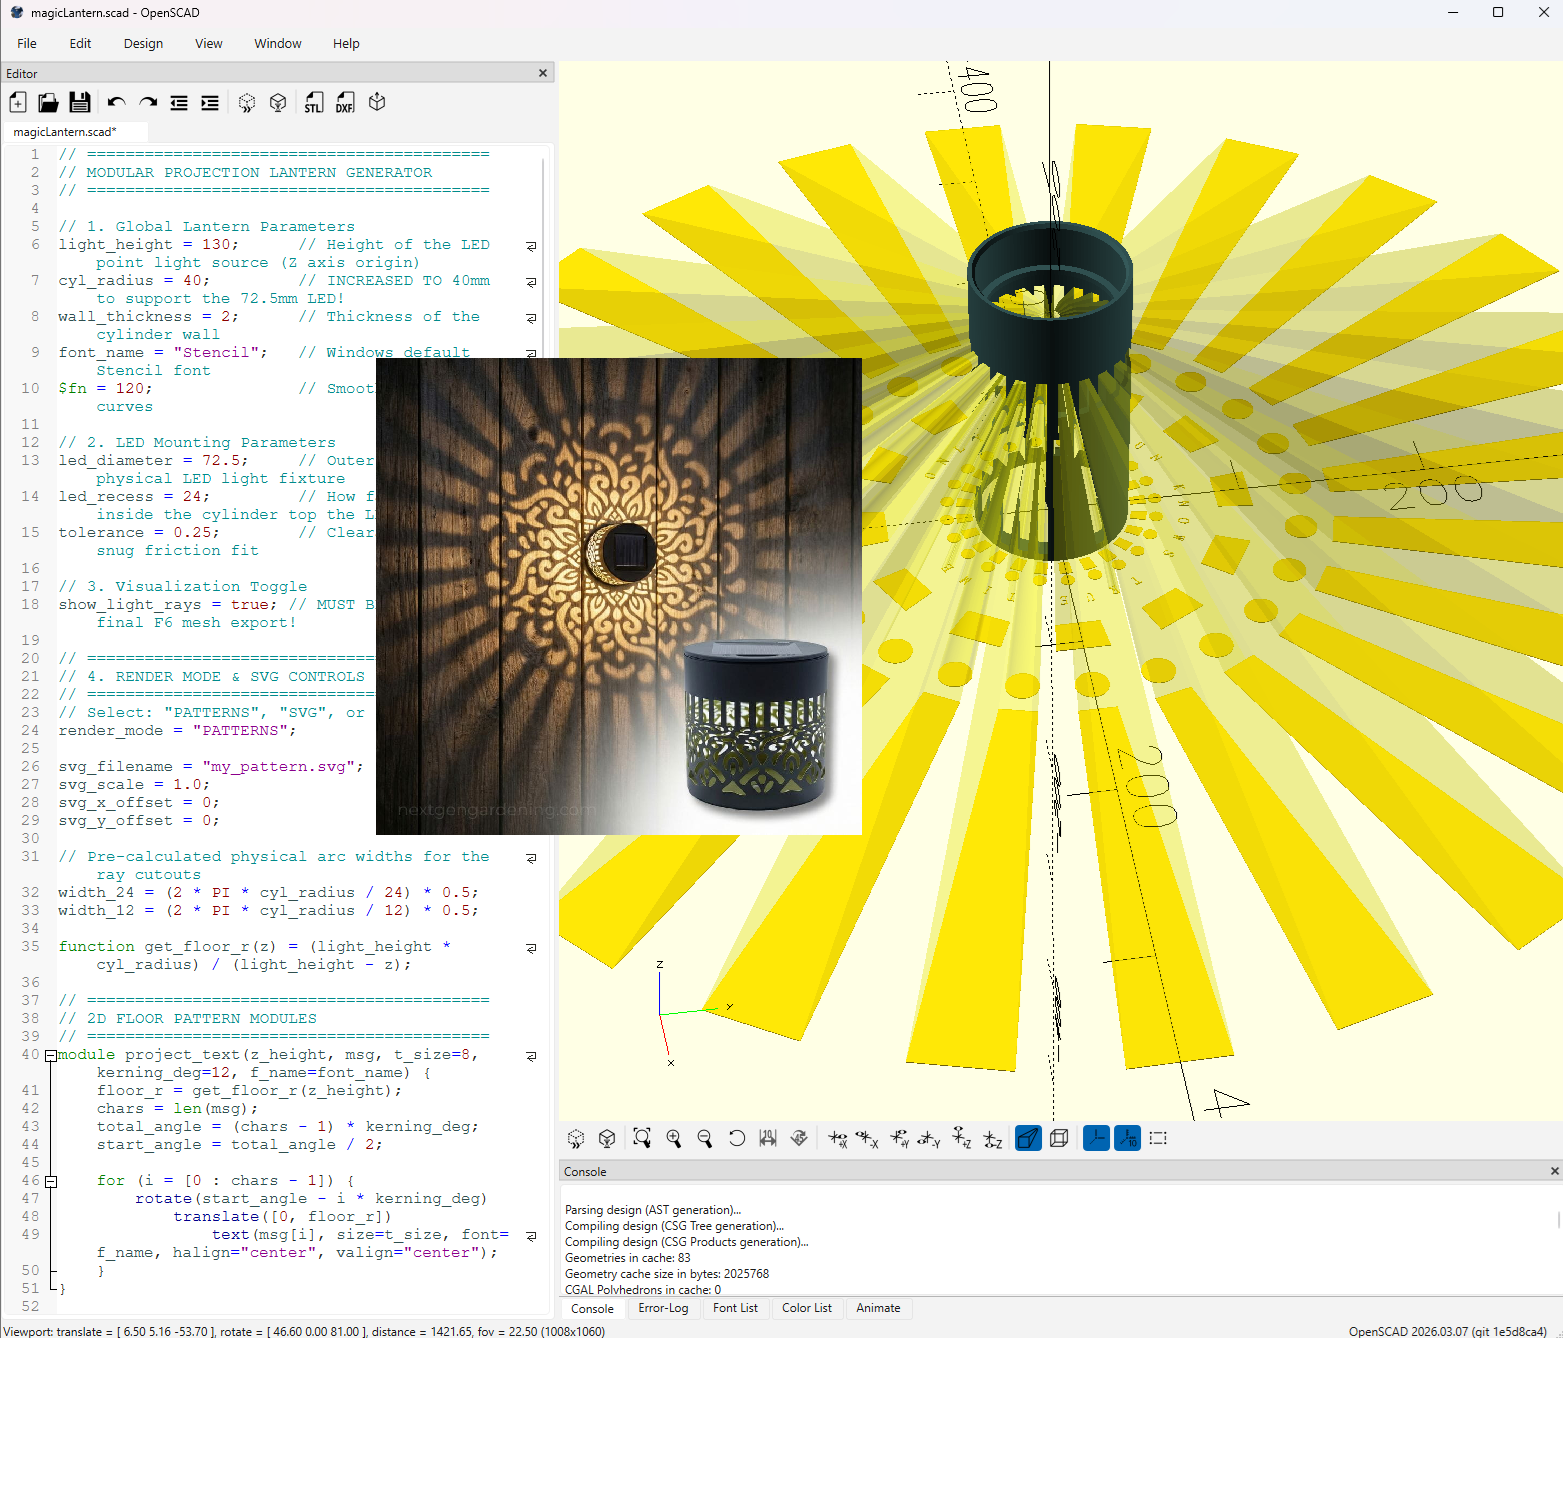
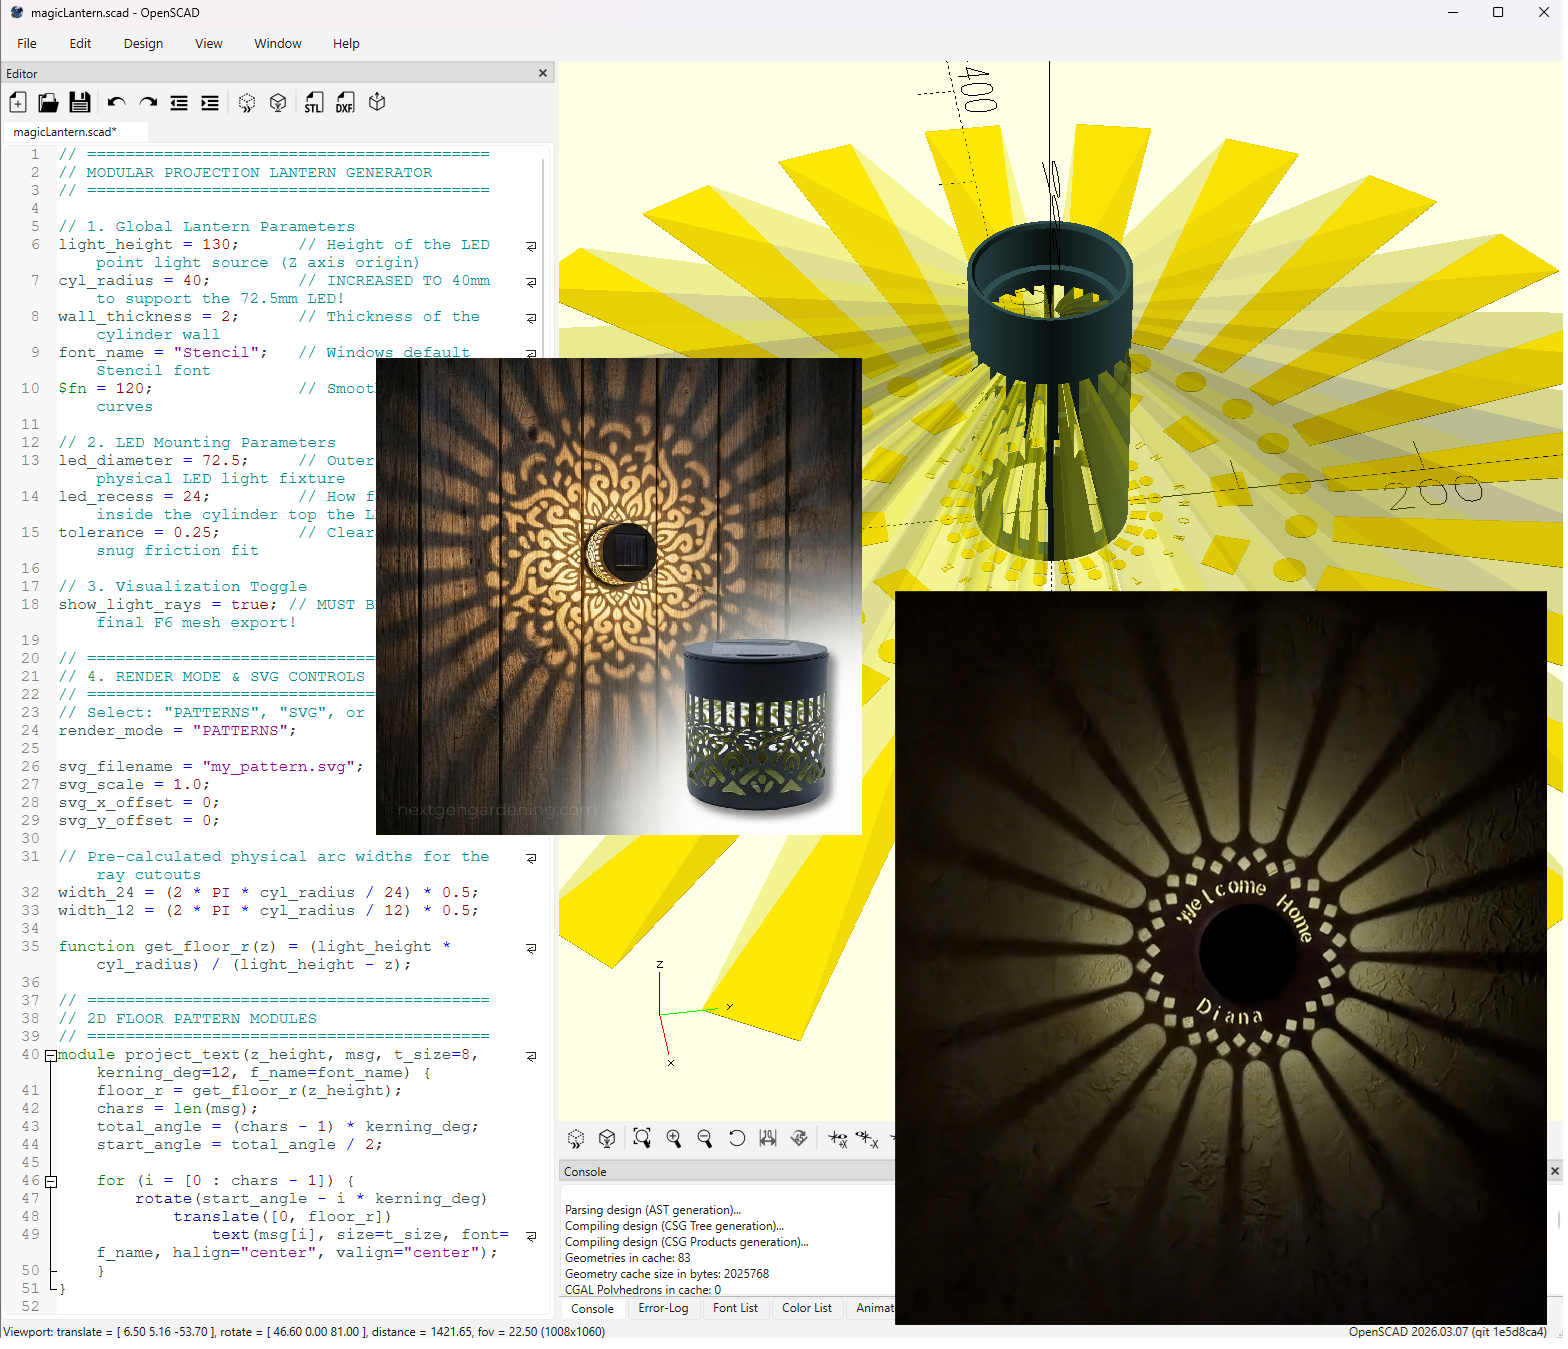
Update featured artworks in artworks.ts to reflect new project details and replace outdated entries; update Magic Lantern image file.

diff --git a/src/data/artworks.ts b/src/data/artworks.ts
@@ -126,7 +126,7 @@ export const artworks: Artwork[] = [
 ];
 
 export const featuredArtworks: Artwork[] = [
-  artworks.find(art => art.id === 'painting-3')!,   // Profile in Guache
+  artworks.find(art => art.id === 'code-2')!,        // Precision Sundial Generator (Code)
   artworks.find(art => art.id === 'sculpture-29')!,  // Final Day at MARBLEmarble36!
   artworks.find(art => art.id === 'photo-4')!,       // Sunrise over Trappers Lake
 ];
